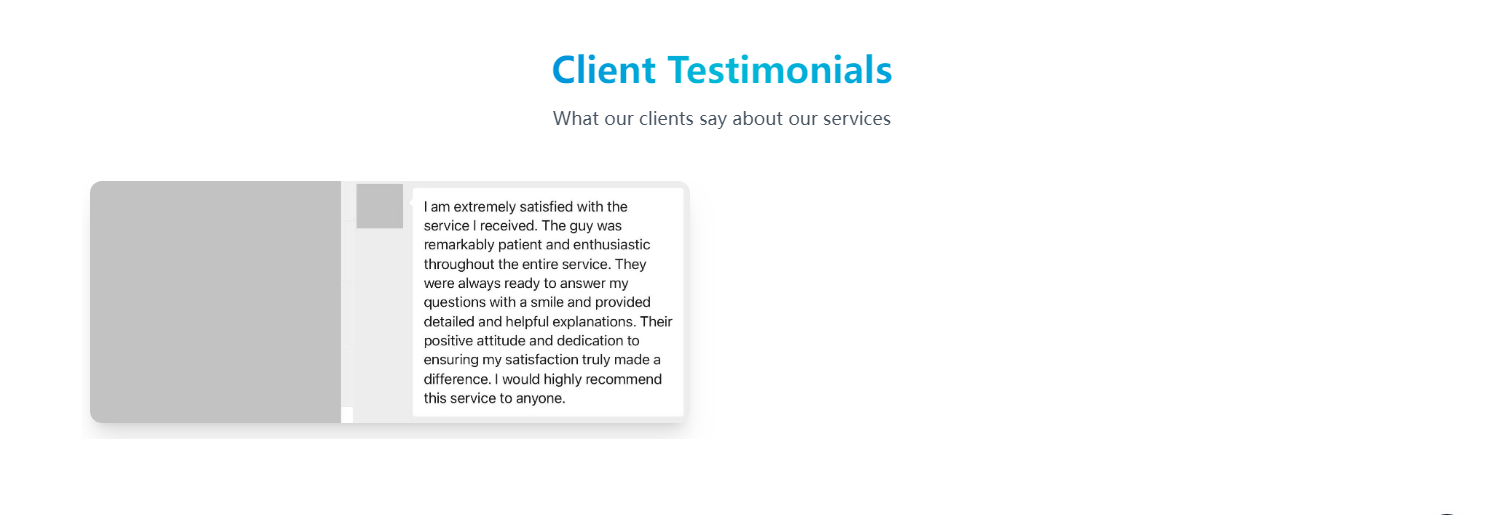
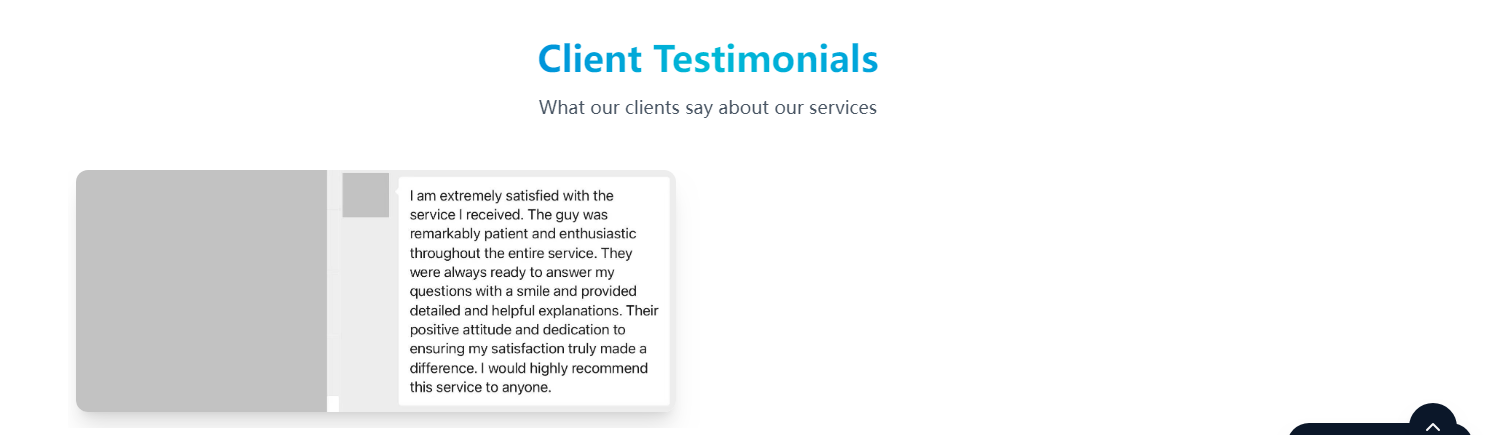
Agent query: Can you now see both testimonial images side by side with the ability to scroll between them?
Adjust Testimonials component styling and width.

Screenshot: https://storage.googleapis.com/screenshot-production-us-central1/cad623b8-61fe-484e-b3c7-be4cac67c3b3/4b02b911-eec4-47b9-bd09-6281698e7735.jpg

diff --git a/client/src/components/Testimonials.tsx b/client/src/components/Testimonials.tsx
@@ -41,10 +41,10 @@ export function Testimonials() {
 
         <div 
           ref={containerRef}
-          className="relative w-full overflow-hidden"
+          className="relative overflow-x-hidden w-full max-w-6xl mx-auto"
         >
           <motion.div 
-            className="flex gap-8 px-4 pb-4 min-w-full"
+            className="flex space-x-8 px-4 pb-4"
             style={{ x }}
             drag="x"
             dragConstraints={containerRef}
@@ -53,7 +53,7 @@ export function Testimonials() {
             {testimonials.map((testimonial) => (
               <motion.div
                 key={testimonial.id}
-                className="flex-shrink-0 w-full md:w-[600px]"
+                className="flex-shrink-0 w-[500px]"
                 whileHover={{ scale: 1.02 }}
                 whileTap={{ scale: 0.98 }}
               >
